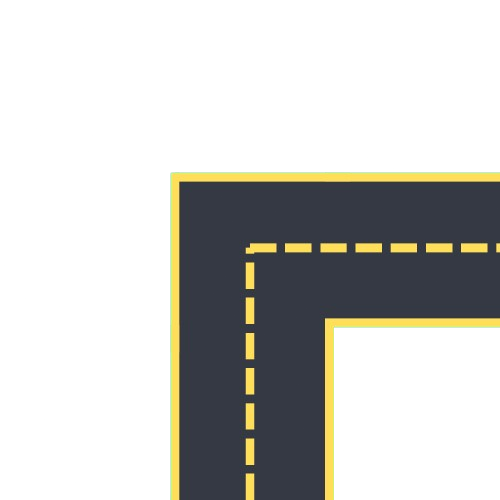
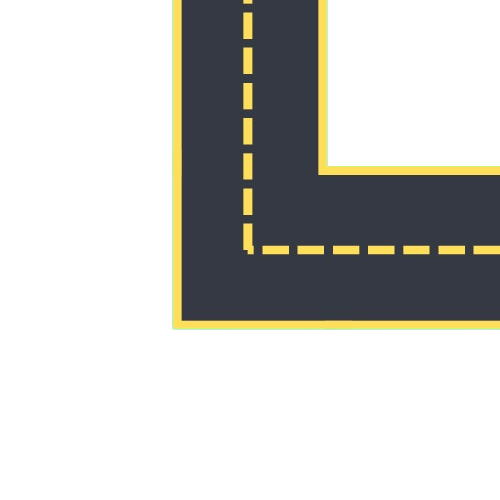
rotate image

Changed region(s): [[0.33, 0.0, 1.0, 1.0]]

diff --git a/gui/utils/ImageDrawer.java b/gui/utils/ImageDrawer.java
@@ -1,60 +1,78 @@
 package gui.utils;
 
 import gui.MainFrame;
-import src.utils.Tuple;
-
 import java.awt.AlphaComposite;
 import java.awt.Graphics;
 import java.awt.Graphics2D;
 import java.awt.Image;
 import java.util.Random;
+import src.utils.Tuple;
 
 public class ImageDrawer {
-        private static final Image civilianImage = ImageLoader.loadImage("entities/civilian.jpg");
-        private static final Image medicImage = ImageLoader.loadImage("entities/medic.jpg");
-        private static final Image soldierImage = ImageLoader.loadImage("entities/soldier.jpg");
-        private static final Image mechanicImage = ImageLoader.loadImage("entities/mechanic.jpg");
-    
-        private static final Image fourwayRoad = ImageLoader.loadImage("map/fourway.png");
-        private static final Image threewayRoad = ImageLoader.loadImage("map/threeway.png");
-        private static final Image curvedRoad = ImageLoader.loadImage("map/curved.png");
-        private static final Image straightRoad = ImageLoader.loadImage("map/straight.png");
-    
-        private static final Image policeStation = ImageLoader.loadImage("landmark/1.png");
-        private static final Image nuclearPlant = ImageLoader.loadImage("landmark/2.png");
-        private static final Image hospital = ImageLoader.loadImage("landmark/3.png");
-        private static final Image store = ImageLoader.loadImage("landmark/4.png");
-    
-        private static void drawMap(Graphics g, int width, int height, int x, int y) {
+    private static final Image civilianImage = ImageLoader.loadImage("entities/civilian.jpg");
+    private static final Image medicImage = ImageLoader.loadImage("entities/medic.jpg");
+    private static final Image soldierImage = ImageLoader.loadImage("entities/soldier.jpg");
+    private static final Image mechanicImage = ImageLoader.loadImage("entities/mechanic.jpg");
+
+    private static final Image fourwayRoad = ImageLoader.loadImage("map/fourway.png");
+    private static final Image threewayRoad = ImageLoader.loadImage("map/threeway.png");
+    private static final Image curvedRoad = ImageLoader.loadImage("map/curved.png");
+    private static final Image straightRoad = ImageLoader.loadImage("map/straight.png");
+
+    private static final Image policeStation = ImageLoader.loadImage("landmark/1.png");
+    private static final Image nuclearPlant = ImageLoader.loadImage("landmark/2.png");
+    private static final Image hospital = ImageLoader.loadImage("landmark/3.png");
+    private static final Image store = ImageLoader.loadImage("landmark/4.png");
+
+    private static void drawMap(Graphics g, int width, int height, int x, int y) {
+        int orientation = MainFrame.getField().getBlock(new Tuple(x, y)).getOrientation();
+        Graphics2D g2d = (Graphics2D) g;
             switch (MainFrame.getField().getBlock(new Tuple(x, y)).getPathType()) {
-                case FOURWAY -> g.drawImage(fourwayRoad, 0, 0, width, height, null);
-                case THREEWAY -> g.drawImage(threewayRoad, 0, 0, width, height, null);
-                case CURVED -> g.drawImage(curvedRoad, 0, 0,width, height,null);
-                case STRAIGHT -> g.drawImage(straightRoad, 0, 0,width, height,null);
+                case FOURWAY -> g2d.drawImage(fourwayRoad, 0, 0, width, height, null);
+                case THREEWAY -> {
+                    switch (orientation) {
+                        case 1 -> g2d.rotate(Math.toRadians(90), width / 2, height / 2);
+                        case 2 -> g2d.rotate(Math.toRadians(180), width / 2, height / 2);
+                        case 3 -> g2d.rotate(Math.toRadians(270), width / 2, height / 2);
+
+                    }
+                    g2d.drawImage(threewayRoad, 0, 0, width, height, null);
+                }
+                case CURVED -> {
+                    switch (orientation) {
+                        case 1 -> g2d.rotate(Math.toRadians(90), width / 2, height / 2);
+                        case 2 -> g2d.rotate(Math.toRadians(180), width / 2, height / 2);
+                        case 3 -> g2d.rotate(Math.toRadians(270), width / 2, height / 2);
+                    }
+                    g2d.drawImage(curvedRoad, 0, 0, width, height, null);
+                }
+                case STRAIGHT -> {
+                    if (orientation % 2 != 0) g2d.rotate(Math.toRadians(90), width / 2, height / 2);
+                    g2d.drawImage(straightRoad, 0, 0, width, height, null);
+                }
             }
-        }
-    
-        public static void drawImages(Graphics g, int x, int y, int width, int height) {
-            Graphics2D g2d = (Graphics2D) g.create();
-            g2d.setComposite(AlphaComposite.getInstance(AlphaComposite.SRC_OVER, 0.7f));
-            drawMap(g2d, width, height, x, y);
-            drawLandmark(g, x, y, width, height);
-            drawUnits(g, MainFrame.getField().getBlock(new Tuple(x, y)).getCivilians().size(), civilianImage, width, height);
-            drawUnits(g, MainFrame.getField().getBlock(new Tuple(x, y)).getSoldiers().size(), soldierImage, width, height);
-            drawUnits(g, MainFrame.getField().getBlock(new Tuple(x, y)).getMedics().size(), medicImage, width, height);
-            drawUnits(g, MainFrame.getField().getBlock(new Tuple(x, y)).getMechanics().size(), mechanicImage, width, height);
-        }
-    
-        private static void drawLandmark(Graphics g, int x, int y, int width, int height) {
-            int Landmark_SIZE = 60;
-            switch (MainFrame.getField().getBlock(new Tuple(x, y)).getBlockType()) {
-                case STORE -> drawRandomImage(g, store, Landmark_SIZE, width, height);
-                case HOSPITAL -> drawRandomImage(g, hospital, Landmark_SIZE, width, height);
-                case POLICESTATION -> drawRandomImage(g, policeStation, Landmark_SIZE, width, height);
-                case POWERPLANT -> drawRandomImage(g, nuclearPlant, Landmark_SIZE, width, height);
-                case DEFAULT -> System.out.println("");
-                case SPAWN -> System.out.println("");
-                default -> throw new IllegalArgumentException("Unexpected value: " + MainFrame.getField().getBlock(new Tuple(x, y)).getBlockType());
+    }
+
+    public static void drawImages(Graphics g, int x, int y, int width, int height) {
+        Graphics2D g2d = (Graphics2D) g.create();
+        g2d.setComposite(AlphaComposite.getInstance(AlphaComposite.SRC_OVER, 0.7f));
+        drawMap(g2d, width, height, x, y);
+        drawLandmark(g, x, y, width, height);
+        drawUnits(g, MainFrame.getField().getBlock(new Tuple(x, y)).getCivilians().size(), civilianImage, width,
+                height);
+        drawUnits(g, MainFrame.getField().getBlock(new Tuple(x, y)).getSoldiers().size(), soldierImage, width, height);
+        drawUnits(g, MainFrame.getField().getBlock(new Tuple(x, y)).getMedics().size(), medicImage, width, height);
+        drawUnits(g, MainFrame.getField().getBlock(new Tuple(x, y)).getMechanics().size(), mechanicImage, width,
+                height);
+    }
+
+    private static void drawLandmark(Graphics g, int x, int y, int width, int height) {
+        int Landmark_SIZE = 60;
+        switch (MainFrame.getField().getBlock(new Tuple(x, y)).getBlockType()) {
+            case STORE -> drawRandomImage(g, store, Landmark_SIZE, width, height);
+            case HOSPITAL -> drawRandomImage(g, hospital, Landmark_SIZE, width, height);
+            case POLICESTATION -> drawRandomImage(g, policeStation, Landmark_SIZE, width, height);
+            case POWERPLANT -> drawRandomImage(g, nuclearPlant, Landmark_SIZE, width, height);
         }
     }
 
